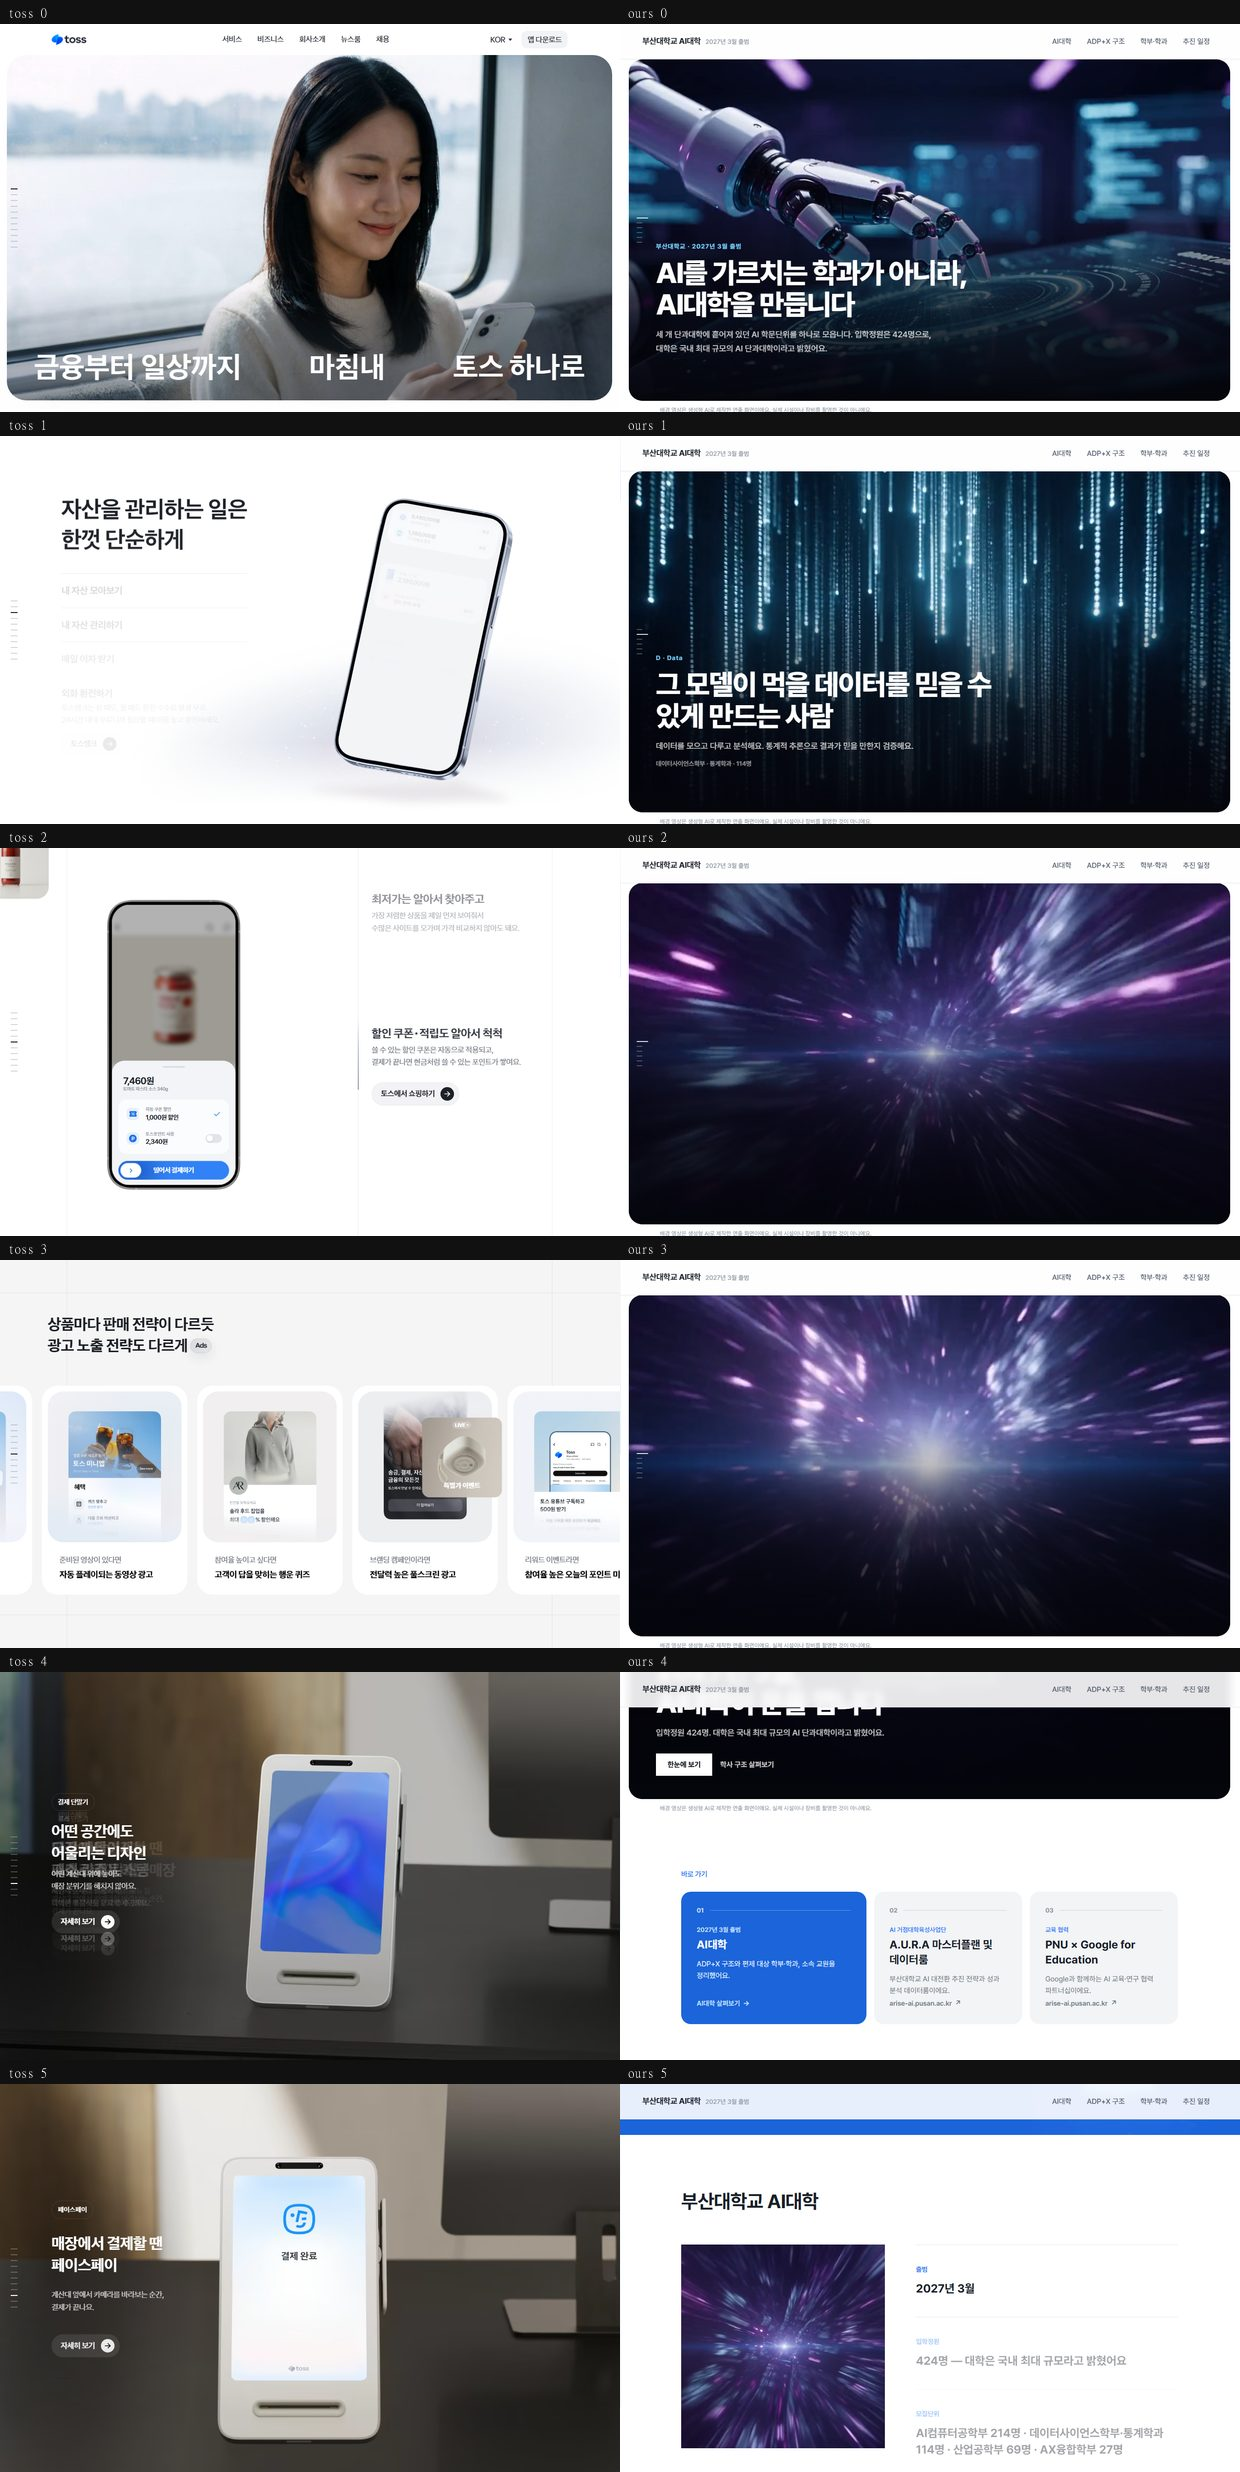
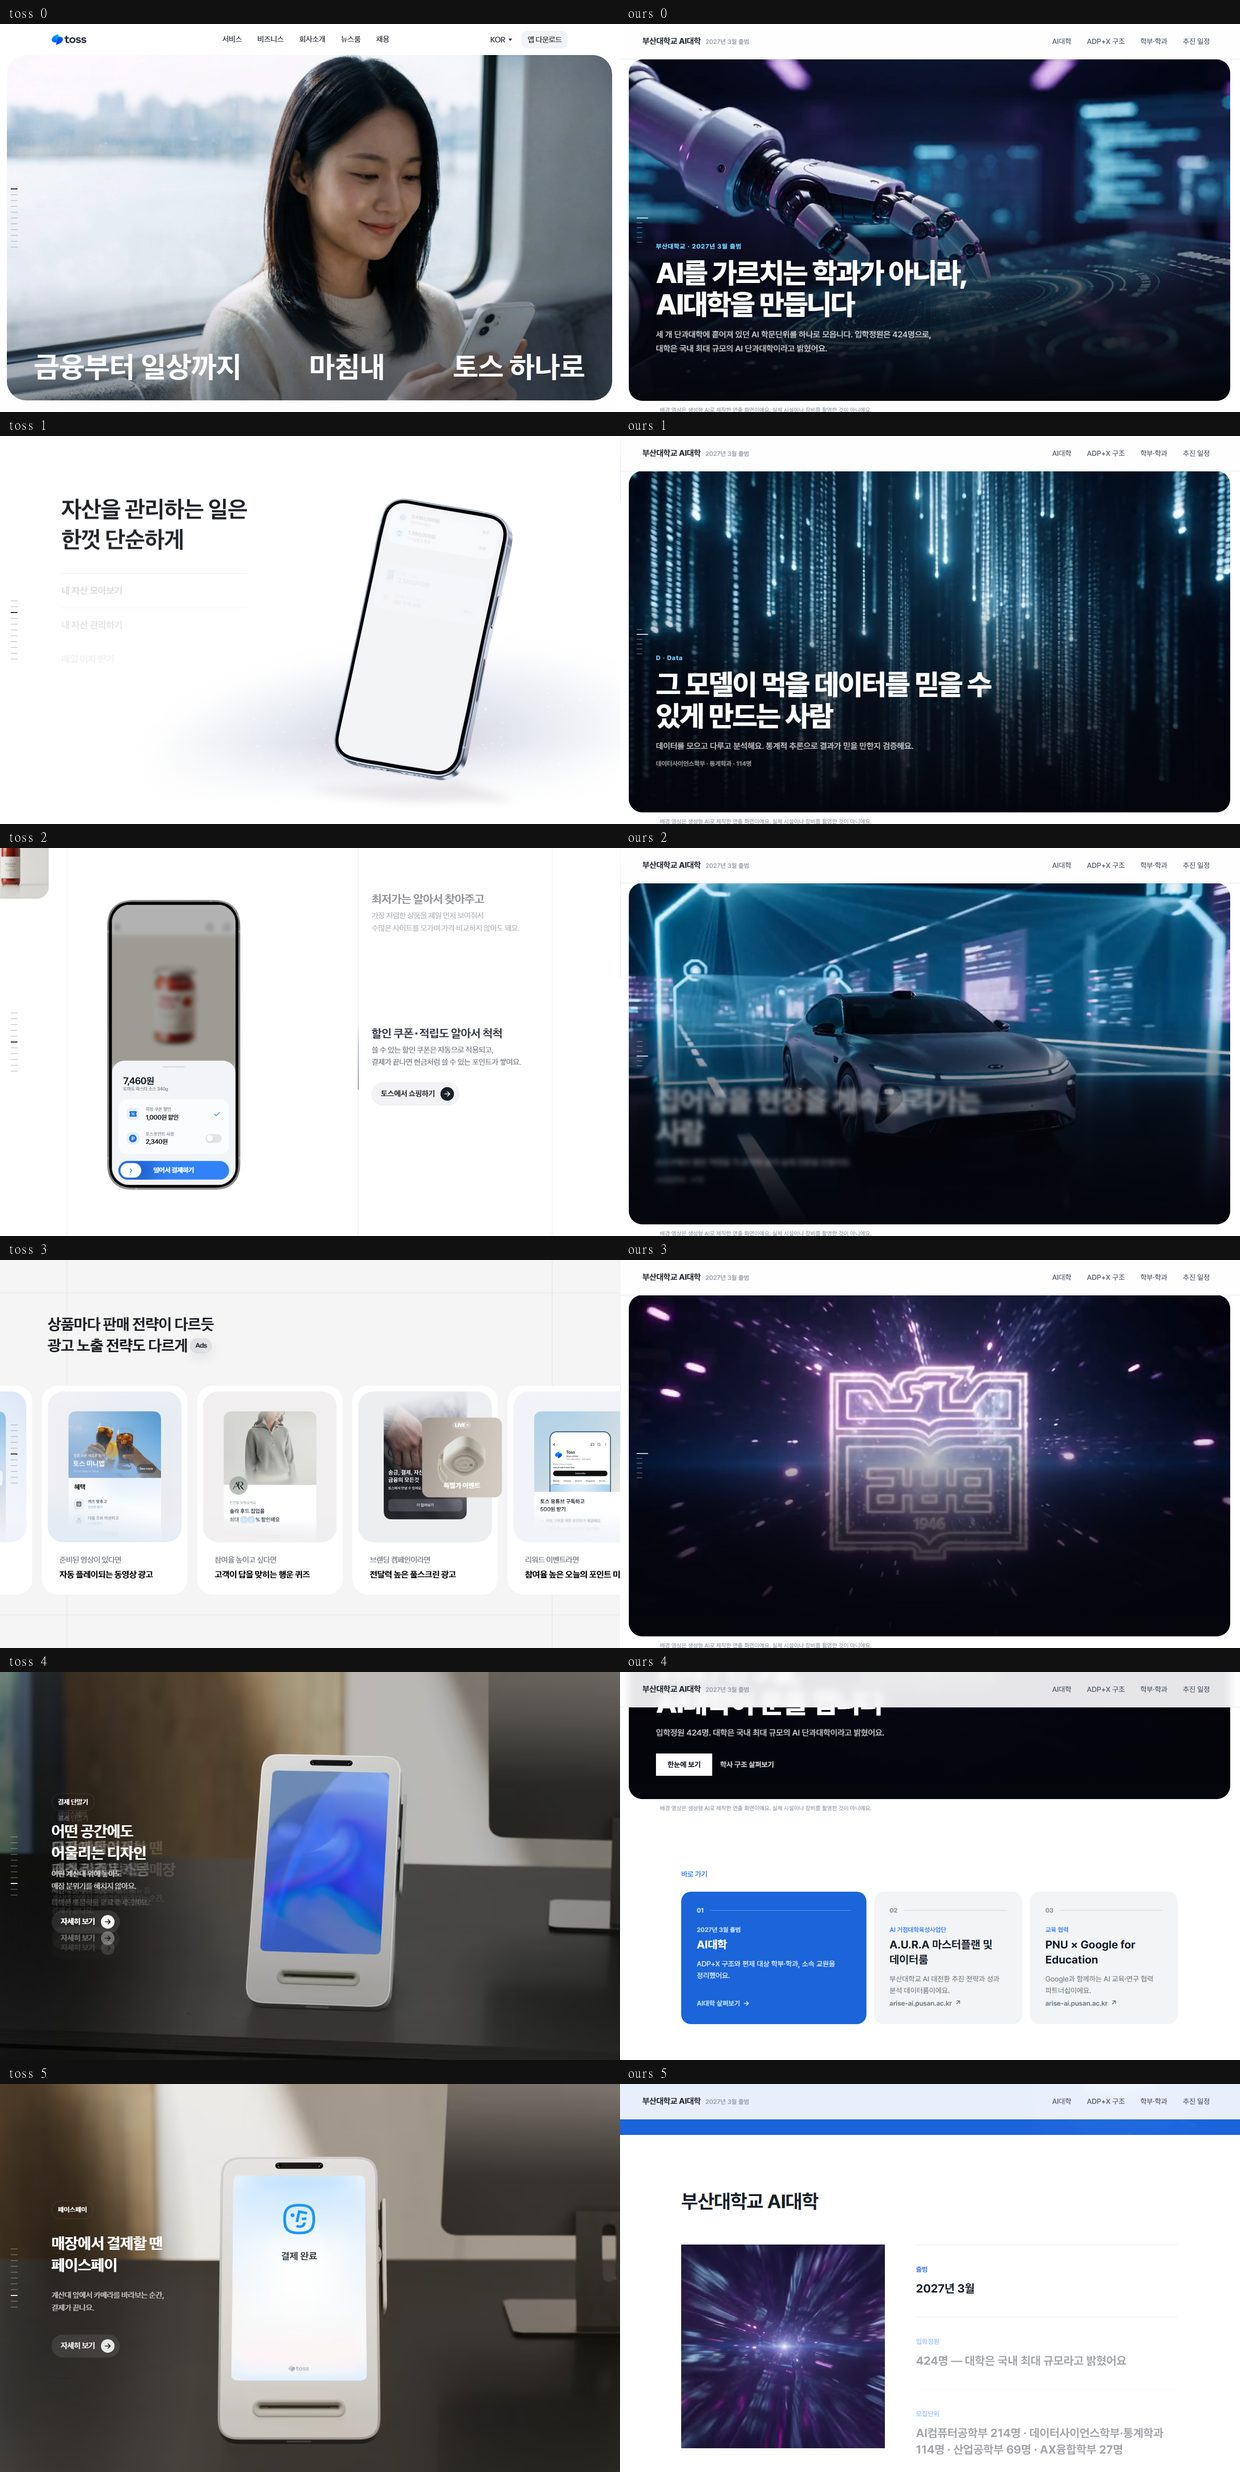
대기열을 정리하고 6회차를 기록한다
hf-queue.mjs 가 execFile 에 인자까지 붙은 한 줄을 넘기고 있었다. PowerShell
에서는 우연히 통과하지만 bash 에서는 ENOENT 로 죽는다. exec 로 바꿨다.

죽은 작업 하나가 큐 전체를 멈추던 것도 고쳤다. Job not found 는 이제 그
항목만 버리고 넘어간다.

scene_d/a/p/x 네 건은 작업이 만료돼 복구할 수 없다. 재제출은 40크레딧인데
잔액이 25.68 이고, 히어로가 클라이언트 편집본으로 바뀌어 쓰이지도 않는다.
t_px 는 seedance 45크레딧이라 제출 자체가 불가능하다. 둘 다 제거했다.

힉스필드 대기열은 이것으로 끝이다.

Claude-Session: https://claude.ai/code/session_01DneFDYxx25DjwNJdj8uLH7

Changed region(s): [[0.4903, 0.3426, 1.0, 0.6541], [0.4903, 0.1869, 1.0, 0.3115], [0.5516, 0.9033, 0.7355, 0.9968]]

diff --git a/docs/GAP_LOG.md b/docs/GAP_LOG.md
@@ -93,3 +93,39 @@
 
 **크레딧**: 25.68 남음. 힉스필드 재생성은 사실상 끝났고, 앞으로 자산이
 필요하면 이 편집본에서 잘라 쓴다.
+
+## 6회차 — 워프가 스크롤을 먹던 것
+
+**측정**: 배포본을 toss 와 6단계로 나란히 찍었다. 행 2 와 행 3 이 **둘 다 워프**였다.
+문구 없는 화면이 두 스크린 연속이다. toss 는 여섯 행 전부 문구가 있다.
+
+**원인**: 스크롤 진행률을 영상 시간에 그대로 비례시켰다. 4.40–5.67 워프는
+1.27초뿐인데 전체의 12.7%, 700svh 중 89svh 를 가져갔다. 영상 안에서는
+1.27초에 지나가는 전환이 스크롤에서는 한 스크린 가까이 늘어난 셈이다.
+
+**고침**: 컷별 스크롤 배분(`SEGMENTS`)을 도입해 워프 두 구간만 0.28배로 눌렀다.
+
+| 컷 | 전 | 후 |
+|---|---|---|
+| 워프 (4.40–5.67) | 89svh | 28svh |
+| 워프 (7.96–8.40) | 31svh | 10svh |
+
+나머지 컷은 80–152svh 를 받는다. 편집은 그대로다. 바뀐 것은 스크롤 한 칸이
+몇 초를 넘기느냐뿐이다.
+
+**재측정**: 로컬 14단계에서 히어로 표본 10개가 전부 문구를 달고 있고 문구
+없는 화면은 하나도 잡히지 않았다. 배포 후 6단계 재측정에서도 행 0–3 이
+각각 헤드라인 / D / X / 엠블럼으로 채워졌다. 좁혀졌다.
+
+**힉스필드 대기열**: 정리했다.
+- `hf-queue.mjs` 가 `execFile` 에 인자까지 붙은 한 줄을 넘기고 있었다.
+  PowerShell 에서는 우연히 통과하지만 bash 에서는 ENOENT 로 죽는다. `exec` 로 고쳤다.
+- 죽은 작업 하나가 큐 전체를 멈추던 것도 고쳤다. `Job not found` 는 이제
+  그 항목만 버리고 넘어간다.
+- `scene_d/a/p/x` 네 건은 작업이 만료돼 복구 불가. 재제출하면 40크레딧인데
+  잔액이 25.68 이고, 히어로가 클라이언트 편집본으로 바뀌어 쓰이지도 않는다. 제거.
+- `t_px` 는 seedance 45크레딧이라 제출 자체가 불가능. 제거.
+- **힉스필드 대기열은 이것으로 끝이다.** 앞으로 자산은 편집본에서 잘라 쓴다.
+
+**다음 격차**: toss 행 3 은 화면 밖으로 잘려나가는 가로 카드 레일이다.
+우리 행 4 는 3열 고정 그리드라 더 볼 것이 있다는 신호가 없다.
